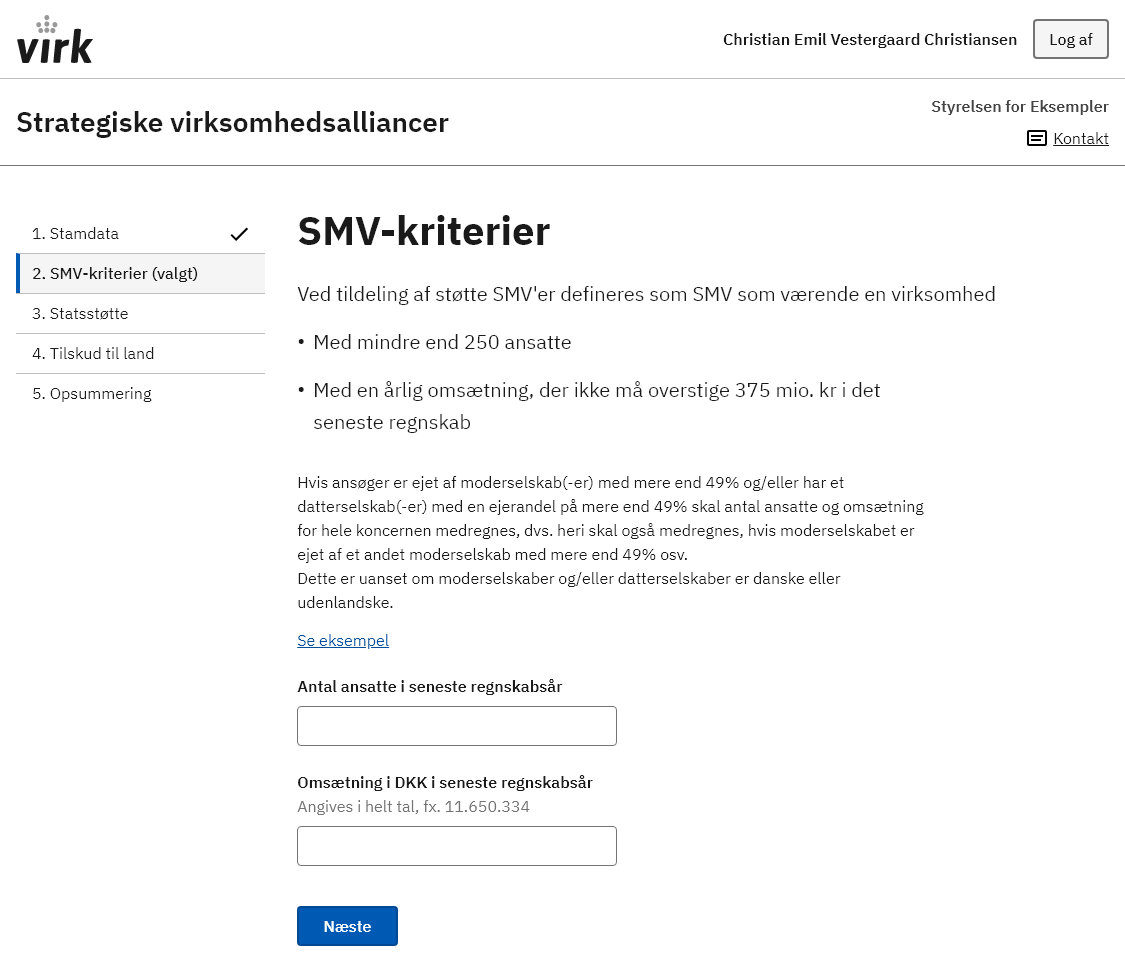
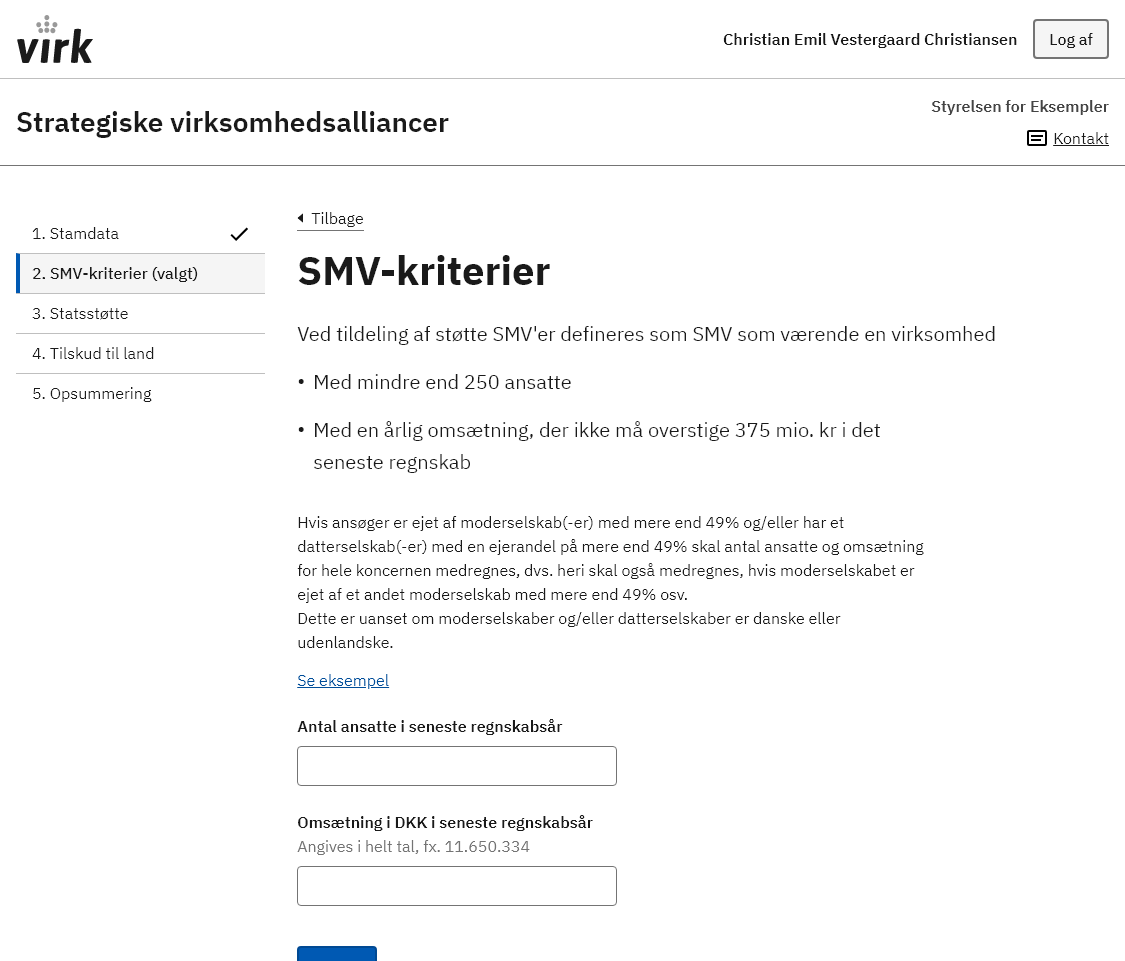
Change back button to back link

diff --git a/docs/pages/eksempler/strategiske-virksomhedsalliancer/virksomhedsalliancer-5/index.html b/docs/pages/eksempler/strategiske-virksomhedsalliancer/virksomhedsalliancer-5/index.html
@@ -148,10 +148,13 @@
                     class="function-link d-inline-block"><svg class="icon-svg" aria-hidden="true"><use xlink:href="#card-text-outline"></use></svg>Kontakt</a>
             </p>
         </div>
+
     </nav> <!-- collapsible nav end-->
 </header>
 
 <div class="container page-container">
+    <div><a href="/pages/eksempler/strategiske-virksomhedsalliancer/virksomhedsalliancer-4/"
+            class="back-link d-lg-none">Tilbage</a></div>
     <div class="row">
         <aside class="col-12 col-lg-3 sidebar-col">
             <div
@@ -217,6 +220,9 @@
             </div>
         </aside>
         <main class="col-12 col-lg-9" id="main-content">
+            <div><a href="/pages/eksempler/strategiske-virksomhedsalliancer/virksomhedsalliancer-4/"
+                    class="back-link d-none d-lg-inline-block">Tilbage</a>
+            </div>
             <h1>Opsummering</h1>
             <p class="font-lead">Her kan du kontrollere, om oplysningerne
                 er korrekte.</p>
@@ -413,8 +419,6 @@
             <nav class="page-navigation d-print-none">
                 <a href="/pages/eksempler/strategiske-virksomhedsalliancer/virksomhedsalliancer-6/"
                     class="button button-primary">Send sagen</a>
-                <a href="/pages/eksempler/strategiske-virksomhedsalliancer/virksomhedsalliancer-4/"
-                    class="button button-quaternary"><svg class="icon-svg " aria-hidden='true' focusable='false'><use xlink:href="#menu-left"></use></svg>Tilbage</a>
             </nav>
         </main>
     </div>

diff --git a/_includes/code/components/example-opsummering-2.html b/_includes/code/components/example-opsummering-2.html
@@ -74,10 +74,13 @@
                     class="function-link d-inline-block"><svg class="icon-svg" aria-hidden="true"><use xlink:href="#card-text-outline"></use></svg>Kontakt</a>
             </p>
         </div>
+
     </nav> <!-- collapsible nav end-->
 </header>
 
 <div class="container page-container">
+    <div><a href="/pages/eksempler/strategiske-virksomhedsalliancer/virksomhedsalliancer-4/"
+            class="back-link d-lg-none">Tilbage</a></div>
     <div class="row">
         <aside class="col-12 col-lg-3 sidebar-col">
             <div
@@ -143,6 +146,9 @@
             </div>
         </aside>
         <main class="col-12 col-lg-9" id="main-content">
+            <div><a href="/pages/eksempler/strategiske-virksomhedsalliancer/virksomhedsalliancer-4/"
+                    class="back-link d-none d-lg-inline-block">Tilbage</a>
+            </div>
             <h1>Opsummering</h1>
             <p class="font-lead">Her kan du kontrollere, om oplysningerne
                 er korrekte.</p>
@@ -339,8 +345,6 @@
             <nav class="page-navigation d-print-none">
                 <a href="/pages/eksempler/strategiske-virksomhedsalliancer/virksomhedsalliancer-6/"
                     class="button button-primary">Send sagen</a>
-                <a href="/pages/eksempler/strategiske-virksomhedsalliancer/virksomhedsalliancer-4/"
-                    class="button button-quaternary"><svg class="icon-svg " aria-hidden='true' focusable='false'><use xlink:href="#menu-left"></use></svg>Tilbage</a>
             </nav>
         </main>
     </div>

diff --git a/docs/pages/eksempler/strategiske-virksomhedsalliancer/virksomhedsalliancer-4/index.html b/docs/pages/eksempler/strategiske-virksomhedsalliancer/virksomhedsalliancer-4/index.html
@@ -145,10 +145,13 @@
                     class="function-link d-inline-block"><svg class="icon-svg" aria-hidden="true" focusable="false"><use xlink:href="#card-text-outline"></use></svg>Kontakt</a>
             </p>
         </div>
+
     </nav> <!-- collapsible nav end-->
 </header>
 
 <div class="container page-container">
+    <div><a href="/pages/eksempler/strategiske-virksomhedsalliancer/virksomhedsalliancer-3/"
+            class="back-link d-lg-none">Tilbage</a></div>
     <div class="row">
         <aside class="col-12 col-lg-3 sidebar-col">
             <div
@@ -210,6 +213,9 @@
             </div>
         </aside>
         <main class="col-12 col-lg-9" id="main-content">
+            <div><a href="/pages/eksempler/strategiske-virksomhedsalliancer/virksomhedsalliancer-3/"
+                    class="back-link d-none d-lg-inline-block">Tilbage</a>
+            </div>
             <h1>Tilskud til land</h1>
             <div class="mt-0">
 
@@ -355,8 +361,6 @@
             <nav class="page-navigation d-print-none">
                 <a href="/pages/eksempler/strategiske-virksomhedsalliancer/virksomhedsalliancer-5/"
                     class="button button-primary">Næste</a>
-                <a href="/pages/eksempler/strategiske-virksomhedsalliancer/virksomhedsalliancer-3/"
-                    class="button button-quaternary"><svg class="icon-svg" aria-hidden="true" focusable="false"><use xlink:href="#menu-left"></use></svg>Tilbage</a>
             </nav>
         </main>
     </div>

diff --git a/_includes/code/components/example-virksomhedsalliancer-page-4.html b/_includes/code/components/example-virksomhedsalliancer-page-4.html
@@ -71,10 +71,13 @@
                     class="function-link d-inline-block"><svg class="icon-svg" aria-hidden="true" focusable="false"><use xlink:href="#card-text-outline"></use></svg>Kontakt</a>
             </p>
         </div>
+
     </nav> <!-- collapsible nav end-->
 </header>
 
 <div class="container page-container">
+    <div><a href="/pages/eksempler/strategiske-virksomhedsalliancer/virksomhedsalliancer-3/"
+            class="back-link d-lg-none">Tilbage</a></div>
     <div class="row">
         <aside class="col-12 col-lg-3 sidebar-col">
             <div
@@ -136,6 +139,9 @@
             </div>
         </aside>
         <main class="col-12 col-lg-9" id="main-content">
+            <div><a href="/pages/eksempler/strategiske-virksomhedsalliancer/virksomhedsalliancer-3/"
+                    class="back-link d-none d-lg-inline-block">Tilbage</a>
+            </div>
             <h1>Tilskud til land</h1>
             <div class="mt-0">
 
@@ -281,8 +287,6 @@
             <nav class="page-navigation d-print-none">
                 <a href="/pages/eksempler/strategiske-virksomhedsalliancer/virksomhedsalliancer-5/"
                     class="button button-primary">Næste</a>
-                <a href="/pages/eksempler/strategiske-virksomhedsalliancer/virksomhedsalliancer-3/"
-                    class="button button-quaternary"><svg class="icon-svg" aria-hidden="true" focusable="false"><use xlink:href="#menu-left"></use></svg>Tilbage</a>
             </nav>
         </main>
     </div>

diff --git a/docs/pages/eksempler/strategiske-virksomhedsalliancer/virksomhedsalliancer-2/index.html b/docs/pages/eksempler/strategiske-virksomhedsalliancer/virksomhedsalliancer-2/index.html
@@ -149,6 +149,8 @@
 </header>
 
 <div class="container page-container">
+    <div><a href="/pages/eksempler/strategiske-virksomhedsalliancer/virksomhedsalliancer-1/"
+            class="back-link d-lg-none">Tilbage</a></div>
     <div class="row">
         <aside class="col-12 col-lg-3 sidebar-col">
             <div
@@ -202,6 +204,9 @@
             </div>
         </aside>
         <main class="col-12 col-lg-9" id="main-content">
+            <div><a href="/pages/eksempler/strategiske-virksomhedsalliancer/virksomhedsalliancer-1/"
+                    class="back-link d-none d-lg-inline-block">Tilbage</a>
+            </div>
             <h1>SMV-kriterier</h1>
             <p class="font-lead">Ved tildeling af støtte SMV'er defineres
                 som SMV som værende en virksomhed</p>
@@ -247,8 +252,6 @@
             <nav class="page-navigation d-print-none">
                 <a href="/pages/eksempler/strategiske-virksomhedsalliancer/virksomhedsalliancer-3/"
                     class="button button-primary">Næste</a>
-                <a href="/pages/eksempler/strategiske-virksomhedsalliancer/virksomhedsalliancer-1/"
-                    class="button button-quaternary"><svg class="icon-svg" aria-hidden="true" focusable="false"><use xlink:href="#menu-left"></use></svg>Tilbage</a>
             </nav>
         </main>
     </div>

diff --git a/_includes/code/components/example-virksomhedsalliancer-page-2.html b/_includes/code/components/example-virksomhedsalliancer-page-2.html
@@ -75,6 +75,8 @@
 </header>
 
 <div class="container page-container">
+    <div><a href="/pages/eksempler/strategiske-virksomhedsalliancer/virksomhedsalliancer-1/"
+            class="back-link d-lg-none">Tilbage</a></div>
     <div class="row">
         <aside class="col-12 col-lg-3 sidebar-col">
             <div
@@ -128,6 +130,9 @@
             </div>
         </aside>
         <main class="col-12 col-lg-9" id="main-content">
+            <div><a href="/pages/eksempler/strategiske-virksomhedsalliancer/virksomhedsalliancer-1/"
+                    class="back-link d-none d-lg-inline-block">Tilbage</a>
+            </div>
             <h1>SMV-kriterier</h1>
             <p class="font-lead">Ved tildeling af støtte SMV'er defineres
                 som SMV som værende en virksomhed</p>
@@ -173,8 +178,6 @@
             <nav class="page-navigation d-print-none">
                 <a href="/pages/eksempler/strategiske-virksomhedsalliancer/virksomhedsalliancer-3/"
                     class="button button-primary">Næste</a>
-                <a href="/pages/eksempler/strategiske-virksomhedsalliancer/virksomhedsalliancer-1/"
-                    class="button button-quaternary"><svg class="icon-svg" aria-hidden="true" focusable="false"><use xlink:href="#menu-left"></use></svg>Tilbage</a>
             </nav>
         </main>
     </div>

diff --git a/docs/pages/eksempler/strategiske-virksomhedsalliancer/virksomhedsalliancer-3/index.html b/docs/pages/eksempler/strategiske-virksomhedsalliancer/virksomhedsalliancer-3/index.html
@@ -149,6 +149,8 @@
 </header>
 
 <div class="container page-container">
+    <div><a href="/pages/eksempler/strategiske-virksomhedsalliancer/virksomhedsalliancer-2/"
+            class="back-link d-lg-none">Tilbage</a></div>
     <div class="row">
         <aside class="col-12 col-lg-3 sidebar-col">
             <div
@@ -205,7 +207,9 @@
             </div>
         </aside>
         <main class="col-12 col-lg-9" id="main-content">
-
+            <div><a href="/pages/eksempler/strategiske-virksomhedsalliancer/virksomhedsalliancer-2/"
+                    class="back-link d-none d-lg-inline-block">Tilbage</a>
+            </div>
             <h1>Statsstøtte</h1>
 
             <div class="alert alert alert-info alert--paragraph"
@@ -393,8 +397,6 @@
             <nav class="page-navigation d-print-none">
                 <a href="/pages/eksempler/strategiske-virksomhedsalliancer/virksomhedsalliancer-4/"
                     class="button button-primary">Næste</a>
-                <a href="/pages/eksempler/strategiske-virksomhedsalliancer/virksomhedsalliancer-2/"
-                    class="button button-quaternary"><svg class="icon-svg" aria-hidden="true" focusable="false"><use xlink:href="#menu-left"></use></svg>Tilbage</a>
             </nav>
         </main>
     </div>

diff --git a/_includes/code/components/example-virksomhedsalliancer-page-3.html b/_includes/code/components/example-virksomhedsalliancer-page-3.html
@@ -75,6 +75,8 @@
 </header>
 
 <div class="container page-container">
+    <div><a href="/pages/eksempler/strategiske-virksomhedsalliancer/virksomhedsalliancer-2/"
+            class="back-link d-lg-none">Tilbage</a></div>
     <div class="row">
         <aside class="col-12 col-lg-3 sidebar-col">
             <div
@@ -131,7 +133,9 @@
             </div>
         </aside>
         <main class="col-12 col-lg-9" id="main-content">
-
+            <div><a href="/pages/eksempler/strategiske-virksomhedsalliancer/virksomhedsalliancer-2/"
+                    class="back-link d-none d-lg-inline-block">Tilbage</a>
+            </div>
             <h1>Statsstøtte</h1>
 
             <div class="alert alert alert-info alert--paragraph"
@@ -319,8 +323,6 @@
             <nav class="page-navigation d-print-none">
                 <a href="/pages/eksempler/strategiske-virksomhedsalliancer/virksomhedsalliancer-4/"
                     class="button button-primary">Næste</a>
-                <a href="/pages/eksempler/strategiske-virksomhedsalliancer/virksomhedsalliancer-2/"
-                    class="button button-quaternary"><svg class="icon-svg" aria-hidden="true" focusable="false"><use xlink:href="#menu-left"></use></svg>Tilbage</a>
             </nav>
         </main>
     </div>
